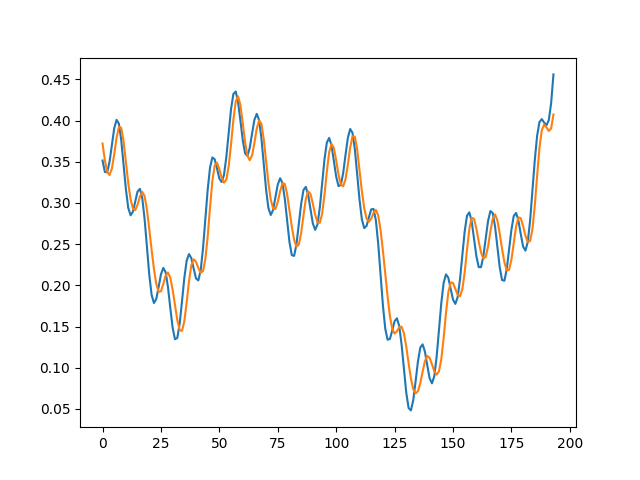
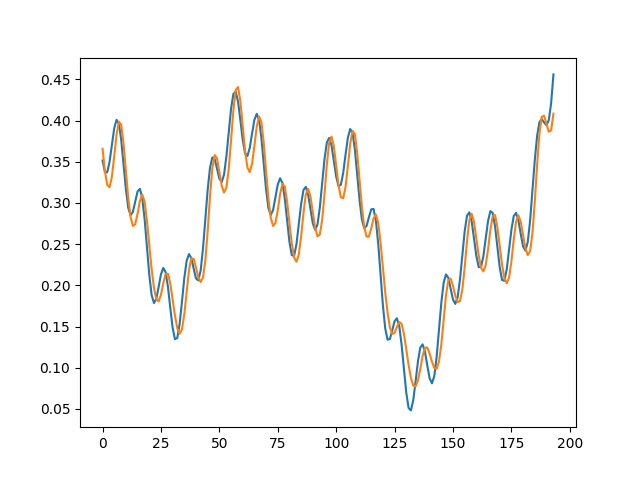
zemi190622

diff --git a/hello_NN.py b/hello_NN.py
@@ -56,7 +56,7 @@ INPUT_LAYER_NUM = INPUT_DAYS
 HIDDEN_LAYER_NUM = 3
 OUTPUT_LAYER_NUM = 1
 TRAIN_RATE = 0.2
-TRAIN_NUM = 1000
+TRAIN_NUM = 100
 
 #入出力ホルダー
 inpData = tf.placeholder(tf.float32, [None, INPUT_LAYER_NUM])
